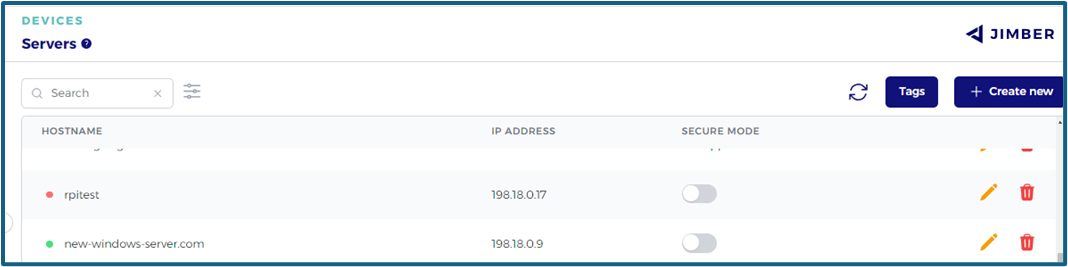
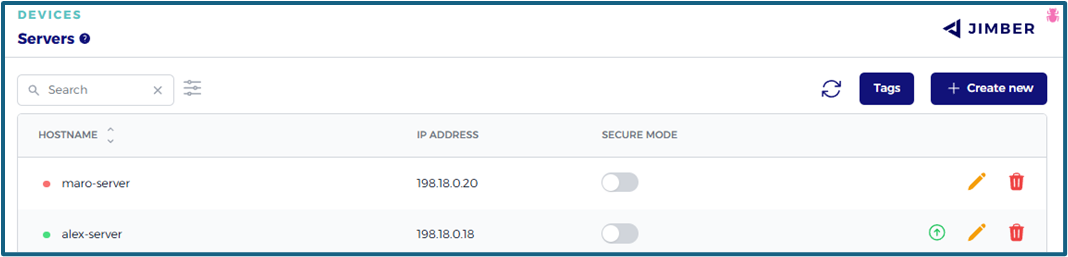
3th of december 2024

diff --git a/devices/networkcontrollerssetup/SettingUpServer.md b/devices/networkcontrollerssetup/SettingUpServer.md
@@ -106,87 +106,7 @@ Shortly after, there should be a green dot visible next to the created network c
 
 ### Hypervisor installation
 
-Hypervisor installation is widely used. It's a very convenient way of working. The major advantage is that the network controller server can be installed on existing hardware. Therefore, there's no need for a physical device. However, there are some settings you need to consider.
+Hypervisor installation is widely used. It's a very convenient way of working. The major advantage is that the network controller server can be installed on existing hardware. Therefore, there's no need for a physical device. 
 
-The following minimum hardware settings must also be set:    
-  - 2 cores
-  - 4 GB RAM
-  - 25 GB of hard disk space
-   
-
-#### VMware ESXi
-
-When installing the network controller on-prem on ESXi, you need to make sure to select BIOS as the firmware type:
-
-
-![esxi_specs.png](esxi_specs.png ':size=700')
-
-
-#### Hyper-V
-
-When installing a virtual machine on Hyper-V, you can choose for a virtual machine of the first generation or a virtual machine of the second generation.
-
-##### Creating a Hyper-V server
-
-Open the Hyper-V manager:
-
-![hyperv_manager.png](hyperv_manager.png ':size=500')
-
-
-Select the server and in the menu-item Actions choose `New Virtual Machine`. Follow the steps of the Wizard:
-
-![start_wizard.png](start_wizard.png ':size=500')
-
-
-1. Specify name and location
-2. Specify generation. 
-> [!Note]
-> If you don't see this option, it means you have an older version of Hyper-V. That is no problem.
-
-Here you have to choose between Generation 1 or Generation 2. If you are not sure which one to choose, you can consult this page: https://learn.microsoft.com/en-us/windows-server/virtualization/hyper-v/plan/should-i-create-a-generation-1-or-2-virtual-machine-in-hyper-v 
-
-3. Assign memory: 4 GB. Activate the option 'Use Dynamic Memory for this virtual machine'.
-4. Configure network: choose for New Virtual Switch.
-5. Create virtual disk: at least 25 GB.
-6. Installation options: iso-file.
-
-![installation_options.png](installation_options.png ':size=500')
-7. Next step is a summary of the chosen options. After hitting the 'Finish'-button the installation begins as described above.
-
-> [!Warning]
-> After installation you have to restart the server and you could face this error message:
->![cdrom_mount_failed.png](cdrom_mount_failed.png ':size=500')
-
-
-
-<!-- tabs:start -->
-
-
-
-###### **First generation**
-
-In the list of Virtual Machines, choose in the quick menu of the virtual machine 'Settings':
-
-![boot_order_gen1.PNG](boot_order_gen1.PNG ':size=500')
-
-Change the **startup order** to IDE. In the 'Action'-menu of the virtual machine choose 'Reset'. 
-Now the Network Controller should start.  
-
- 
-###### **Second generation**
-
-In the list of Virtual Machines, choose in the quick menu of the virtual machine 'Settings'.
-
-1. Choose the option Security and  uncheck the option 'Enable Secure Boot'.
-
-![secure_boot.png](secure_boot.png ':size=500')
-
-
-2. Choose the option Firmware and change the **boot order** to Hard Drive. 
-
-![boot_order_gen2.PNG](boot_order_gen2.PNG ':size=500')
-
-In the 'Action'-menu of the virtual machine choose 'Reset'. 
-Now the Network Controller should start.  
-
-<!-- tabs:end -->
+> [!INFO]
+> Comprehensive information can be found [here](/./advanced/hypervisorinstallation/hypervisorinstallation.md).

diff --git a/devices/servers/servers.md b/devices/servers/servers.md
@@ -98,14 +98,14 @@ sudo dpkg -i linux-server-latest.deb
 ```
 
 Upon completion of the installation, a new `settings.json` file will be automatically created in the `/etc/jimber/`directory.
-<!-- This file must be completed with the token you were provided upon creating the server within the SASE Platform interface. This can be established with the following command:
+This file must be completed with the token you were provided upon creating the server within the SASE Platform interface. This can be established with the following command:
 
 ```bash
 sudo jimberfw -config
 ```
-![token_linux_server.png](/token_linux_server.png ':size=300') -->
+![token_linux_server.png](/token_linux_server.png ':size=300') 
 
-Open this file using the text editor of your choice. Within this file, you'll notice an empty token along with newly created public and private keys.
+<!-- Open this file using the text editor of your choice. Within this file, you'll notice an empty token along with newly created public and private keys.
 
 In this file, enter the token you were provided upon creating the server within the SASE Platform interface.
 
@@ -118,7 +118,7 @@ In this file, enter the token you were provided upon creating the server within 
 ```
 > [!WARNING]
 > **Attention**! Don't forget the comma at the end of lines and the quotation marks!
-Ensure to save the changes made to the file.
+Ensure to save the changes made to the file. -->
 
 
 
@@ -170,6 +170,7 @@ All other configuration is exactly the same.
 In the overview of the servers, you can see which is online or offline.
 
 A server online will appear in the overview with a green dot. A server offline will appear in the overview with a red dot.
+For a server with an extra green arrow, an update is available.
 
 ![server online.png](server_online.png ':size=800')
 

diff --git a/company/customers/customers.md b/company/customers/customers.md
@@ -2,7 +2,7 @@
 > [!WARNING]
 > This *`Customers`* section is exclusively available for **partners**. If you are an end customer, you will be directly redirected to the Network Isolation configuration of your company.
 
-In our platform, a **customer** refers to a company intending to use Network Isolation. Integrators have the capability to manage these customers, ensuring seamless operations and service delivery.
+In our platform, a **customer** refers to a company intending to use `Jimber SASE Platform`. Integrators have the capability to manage these customers, ensuring seamless operations and service delivery.
 
 For clarity, consider a scenario where a company named *`Astral Voyage`* wants to use Network Isolation. You must first create *`Astral Voyage`* as a customer on the platform before any further configurations or service provisions can occur.
 

diff --git a/company/groups/groups.md b/company/groups/groups.md
@@ -76,12 +76,11 @@ Groups can be edited by clicking on the yellow pencil icon next to their name ![
 ## Copy Group
 Groups can be copied by clicking on the copy icon next to their name ![icon_copy_group.png](/icon_copy_group.png ':size=35').
 
- You'll then be able to copy the group:
+ You'll then be able to choose a name for the new group:
 
 ![copy_group.png](/copy_group.png ':size=500')
 
-> [!NOTE]
-> The name of the new group is then `copy of ...` and can be changed. 
+The new group will show the same details as the original group: firewall rules, group traffic rules, port rules and attributed services.
 
 
 
@@ -100,4 +99,4 @@ Groups can be deleted by clicking on the red trash bin icon next to their name
 
 
 
-[devices]: /./devices
+<!-- [devices]: /./devices -->

diff --git a/advanced/hypervisorinstallation/hypervisorinstallation copy.md b/advanced/hypervisorinstallation/hypervisorinstallation copy.md
@@ -1,8 +1,6 @@
 ### Hypervisor installation
 
-Hypervisor installation is widely used. It's a very convenient way of working. The major advantage is that the network controller server can be installed on existing hardware. Therefore, there's no need for a physical device. However, there are some settings you need to consider.
-
-The following minimum hardware settings must also be set:    
+The following minimum hardware settings must be set:    
   - 2 cores
   - 4 GB RAM
   - 25 GB of hard disk space

diff --git a/advanced/hypervisorinstallation/hypervisorinstallation.md b/advanced/hypervisorinstallation/hypervisorinstallation.md
@@ -2,7 +2,7 @@
 
 Hypervisor installation is widely used. It's a very convenient way of working. The major advantage is that the network controller server can be installed on existing hardware. Therefore, there's no need for a physical device. However, there are some settings you need to consider.
 
-The following minimum hardware settings must also be set:    
+The following minimum hardware settings must be set:    
   - 2 cores
   - 4 GB RAM
   - 25 GB of hard disk space

diff --git a/gettingstarted/index.md b/gettingstarted/index.md
@@ -11,7 +11,7 @@ This guide will show you how to become a member of highly secure companies world
 
 1. [Create Customers](./company/customers/customers)
 > [!NOTE]
-> **(This step is only for integrators who want to add a customer.)**
+> **(This step is only for partners who want to add a customer.)**
 2. [Create domains](./company/domains/domains)
 3. [Create users](./company/users/users)
 4. [Create groups](./company/groups/groups)
